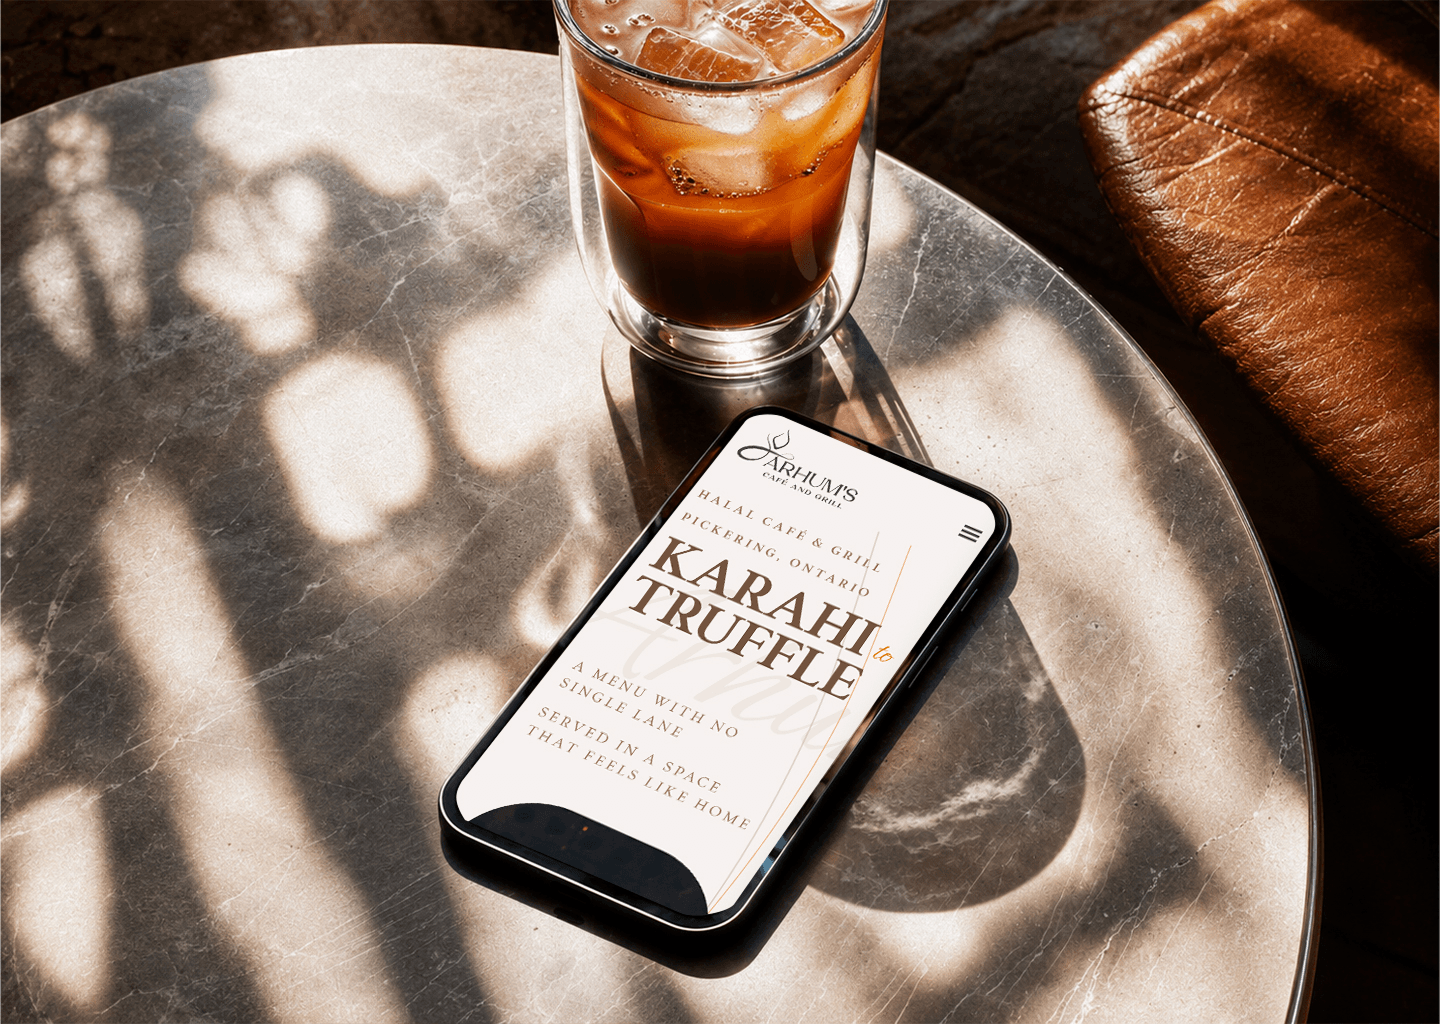
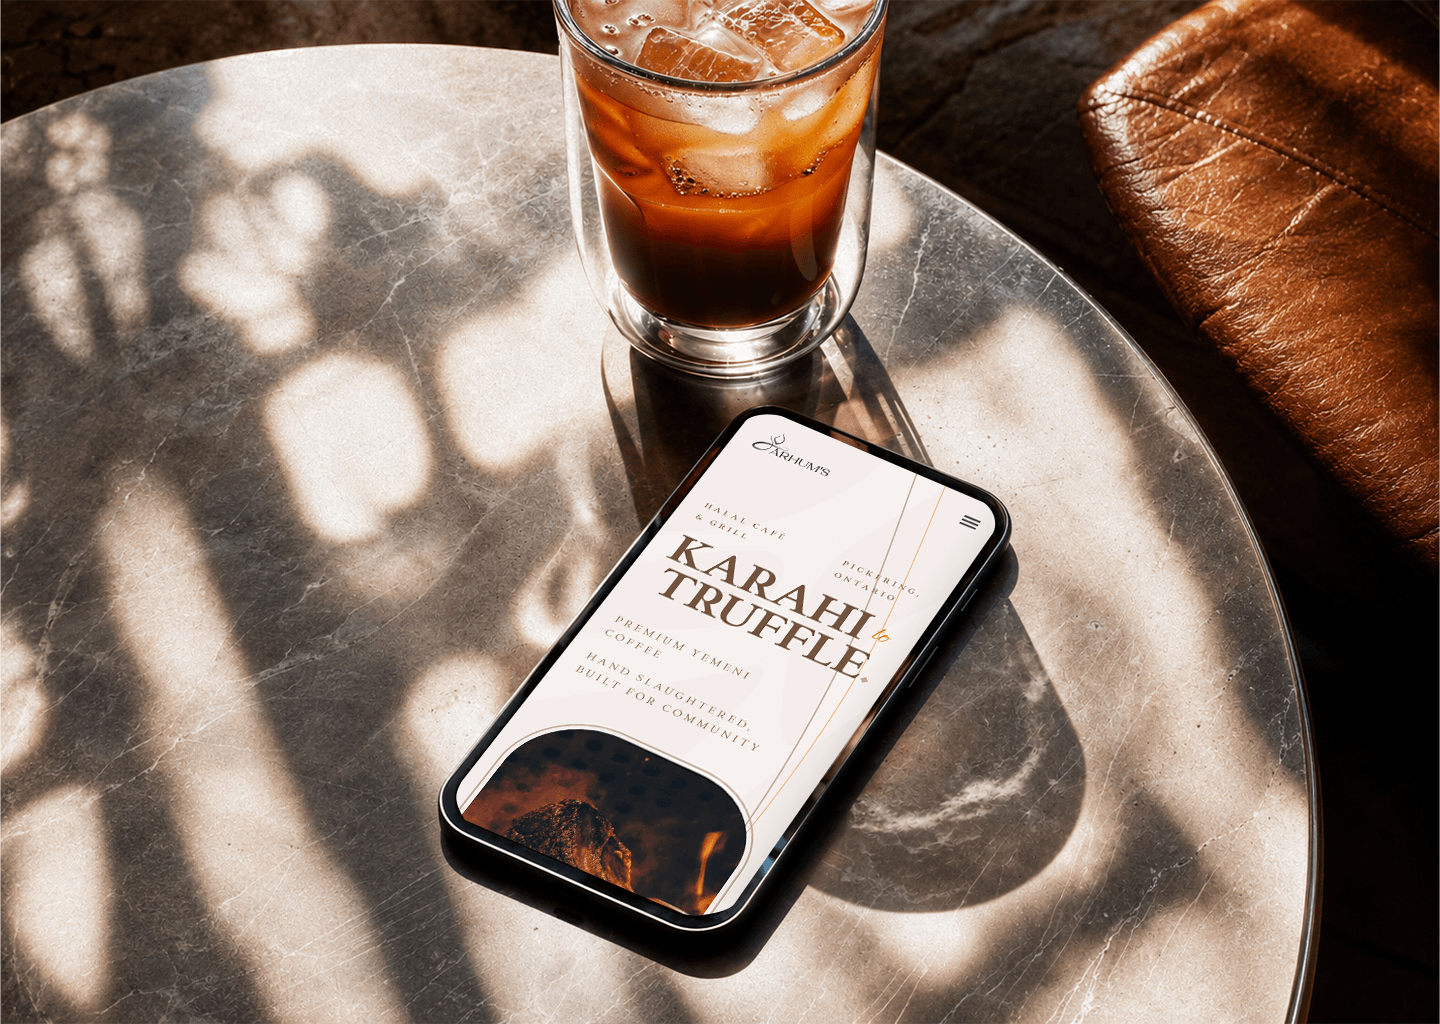
Add Arhum's images to designer project image grid

diff --git a/src/data/Projects.js b/src/data/Projects.js
@@ -364,7 +364,7 @@ export const PROJECTS = [
         ],
 
         images: [
-            { type: "video", src: SOMVIDEO, link: "https://github.com/BrunoShima/Bruno_SOM" }, SOM7, SOM8, SOM5, SOM9, SOM11, SOM12
+            { type: "video", src: SOMVIDEO, link: "https://github.com/BrunoShima/Bruno_SOM" }, SOM10, SOM6, SOM7, SOM8, SOM5, SOM9, SOM11, SOM12
         ],
     },
 
